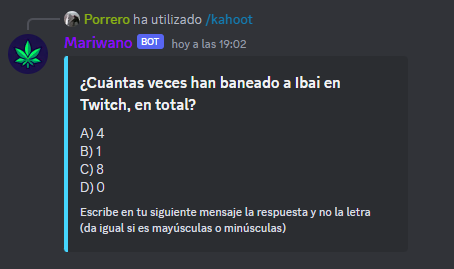
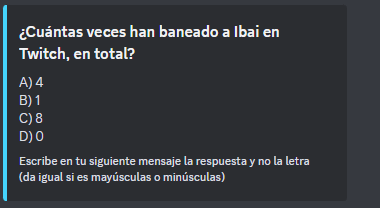
fun category fully completed

Changed region(s): [[0.0, 0.0288, 0.8395, 0.9808]]

diff --git a/src/components/categories/FunCategory.jsx b/src/components/categories/FunCategory.jsx
@@ -1,44 +1,156 @@
 import CategorySection from "../CategorySection";
 import CategoryTitle from "../CategoryTtitle";
-import ryangoslingExample from "../../assets/commands/ryangosling.png";
-import padalustroExample from "../../assets/commands/padalustro.png";
-import fakeyouExample from "../../assets/commands/fakeyou.png";
-import kahootExample from "../../assets/commands/kahoot.png";
-import frasejokerExample from "../../assets/commands/frasejoker.png";
-import arabfunnyExample from "../../assets/commands/arabfunny.png";
-import arabfunnyExample2 from "../../assets/commands/arabfunny2.png";
-import crearmemeExample from "../../assets/commands/crearmeme.png";
+import DiscordMessage from "../DiscordMessage";
 
 export default function FunCategory() {
-    return (
-        <article className="flex flex-col gap-y-8 px-32 pt-10 pb-32">
-            <CategoryTitle title={"Diversión"}>
-                Categoría de los comandos buenos
-            </CategoryTitle>
-            <CategorySection command={"arabfunny"} params={"لا أحد"} firstImageUrl={arabfunnyExample} secondImageUrl={arabfunnyExample2}>
-                هذا الأمر يتضمن اقتراح إرسال رسائل باللغة العربية. يمكن تغيير نصوص الأوامر حسب الرغبة دون أن تتجاوز مليوني حر            </CategorySection>
-            <CategorySection command={"crearmeme"} params={"url, textoArriba, textoAbajo, efectos"} firstImageUrl={crearmemeExample}>
-                A partir de la url de una imagen (una que acabe en .jpg o .png o .gif) añade un texto inferior y uno superior. 
-                Existe la opción de añadir un efecto (esferizar, desenfocar, etc.). Envía el resultado de la imagen (por ahora no puede enviar gifs).
-            </CategorySection>
-            <CategorySection command={"fakeyou"} params={"voz, texto"} firstImageUrl={fakeyouExample}>
-                Envía un audio con la voz hecha con la plataforma de IA FakeYou de tu ídolo/youtuber/streamer favorito. 
-                Introduce a la persona que quieres que recite el texto en el parametro <i>voz</i> (el código coge el primero que encuentre) y el texto en el otro parámetro.
-            </CategorySection>
-            <CategorySection command={"frasejoker"} params={"add, all"} firstImageUrl={frasejokerExample} >
-                Envía una frase aleatoria digna de cita del Joker.
-            </CategorySection>
-            <CategorySection command={"kahoot"} params={"hardcore"} firstImageUrl={kahootExample} >
-                Un trivia de cultura general, si respondes en 15 segundos con la respuesta correcta, te corresponde
-                una recompensa en relación a la dificultad de la pregunta. En el modo <i>hardcore</i> sólo aparecen preguntas difíciles. Hay un límite de 5 preguntas diarias.
-            </CategorySection>
-            <CategorySection command={"padalustro"} params={"Ninguno"} firstImageUrl={padalustroExample} >
-                
-            </CategorySection>
-            <CategorySection command={"ryangosling"} params={"Ninguno"} firstImageUrl={ryangoslingExample} >
-                Envía una foto aleatoria de Ryan Gosling.
-            </CategorySection>
-            
-        </article>
-    )
+  return (
+    <article className="flex flex-col gap-y-8 px-32 pt-10 pb-32">
+      <CategoryTitle title={"Diversión"}>
+        Categoría de los comandos buenos
+      </CategoryTitle>
+
+      <CategorySection
+        command={"arabfunny"}
+        params={"لا أحد"}
+      >
+        هذا الأمر يتضمن اقتراح إرسال رسائل باللغة العربية. يمكن تغيير نصوص
+        الأوامر حسب الرغبة دون أن تتجاوز مليوني حر
+      </CategorySection>
+      <div
+        className="flex container"
+        style={{
+          display: "flex",
+          justifyContent: "center",
+          alignItems: "center",
+          height: "70vh",
+        }}
+      >
+        <DiscordMessage
+          msg={
+            "الافتتاحية (الفاتحة) 1. بسم الله الرحمن الرحيم. 2. الحمد لله رب العالمين. 3. الرحمن الرحيم. 4. سيد يوم الدين. 5. إياك نعبد وإياك نستعين. 6. اهدنا إلى الصراط المستقيم. 7. صراط الذين أنعمت عليهم غير المغضوب عليهم ولا الضالين. 2. البقرة (البقرة) بسم الله الرحمن الرحيم 1. ألف، لام، ميم. 2. ذلك الكتاب لا ريب فيه هدى للمتقين. 3. الذين يؤمنون بالغيب ويقيمون الصلاة ومما رزقناهم ينفقون. 4. والذين يؤمنون بما أنزل إليك وما أنزل من قبلك وبالآخرة هم يوقنون. 5. أولئك على هدى من ربهم. هؤلاء هم الناجحون. 6. أما الذين كفروا سواء عليهم أأنذرتهم أم لم تنذرهم لا يؤمنون. 7. ختم الله على قلوبهم وعلى سمعهم وعلى أبصارهم غشاوة. ولهم عذاب شديد . 8. ومن الناس من يقول آمنا بالله واليوم الآخر وما هم بمؤمنين. 9. يخادعون الله والذين آمنوا وما يخدعون إلا أنفسهم وما يشعرون. 10. في قلوبهم مرض فزادهم الله مرضا. ولهم عذاب أليم بما كذبوا. 11. وإذا قيل لهم لا تفسدوا في الأرض قالوا إنما نحن مصلحون. 12. بل هم المفسدون ولكن لا يشعرون. 13. وإذا قيل لهم آمنوا كما آمن الناس قالوا أنؤمن كما آمن السفهاء؟ في"
+          }
+          isBot={true}
+        ></DiscordMessage>
+        <DiscordMessage
+          msg={
+            "😂مرحبًا، مساء الخير أيه😋ا الأوغاد، أناKERNEL😂 أدخن ذا قيل لهم لا تفسدوا في الأرض قالوا إنما نحن مصلحذا قيل لهم لا تفسدوا في الأرض قالوا إنما نحن مصلحذا قيل لهم لا تفسدوا في الأرض قالوا إنما نحن مصلحذا قيل ل😂هم لا تفسدوا في الأرض قالوا إنما نحن مصلحذا قيل لهم لا تفسدوا في الأرض قالوا إنما نحن مصلحذا قيل لهم لا تفسدوا في الأرض قالوا إنما نحن مصلحذا قيل لهم لا تفسدوا في الأرض قالوا 🥵إنما نحن مصلحذا قيل لهم لا تفسدوا في الأرض قالوا إنما نحن مصلحذا قيل لهم لا تفسدوا في الأرض قالوا إنما نحن م🥵صلحذا قيل لهم لا تفسدوا في الأرض قالوا إنما نحن مصلحسيجارة بيتونسيو ها🥵ئلة في الساعة 420 🤯بعد الظهر"
+          }
+          isBot={true}
+        ></DiscordMessage>
+      </div>
+      <CategorySection
+        command={"crearmeme"}
+        params={"url, textoArriba, textoAbajo, efectos"}
+      >
+        A partir de la url de una imagen (una que acabe en .jpg o .png o .gif)
+        añade un texto inferior y uno superior. Existe la opción de añadir un
+        efecto (esferizar, desenfocar, etc.). Envía el resultado de la imagen
+        (por ahora no puede enviar gifs).
+      </CategorySection>
+      <div
+        className="flex container"
+        style={{
+          display: "flex",
+          justifyContent: "center",
+          alignItems: "center",
+          height: "20vh",
+        }}
+      >
+        <DiscordMessage msg={""} isBot={true} imagen={"/src/assets/commands/crearmeme2.png"} imagenHeight={60} imagenWidth={300}></DiscordMessage>
+      </div>
+      <CategorySection
+        command={"fakeyou"}
+        params={"voz, texto"}
+      >
+        Envía un audio con la voz hecha con la plataforma de IA FakeYou de tu
+        ídolo/youtuber/streamer favorito. Introduce a la persona que quieres que
+        recite el texto en el parametro <i>voz</i> (el código coge el primero
+        que encuentre) y el texto en el otro parámetro.
+      </CategorySection>
+      <div
+        className="flex container"
+        style={{
+          display: "flex",
+          justifyContent: "center",
+          alignItems: "center",
+          height: "20vh",
+        }}
+      >
+        <DiscordMessage msg={"Cargando audio..."} isBot={true}></DiscordMessage>
+        <DiscordMessage msg={""} isBot={true} imagen={"/src/assets/commands/tts_audio.png"} imagenHeight={130} imagenWidth={300}>
+          
+        </DiscordMessage>
+      </div>
+      <CategorySection
+        command={"frasejoker"}
+        params={"add, all"}
+      >
+        Envía una frase aleatoria digna de cita del Joker.
+      </CategorySection>
+      <div
+        className="flex container"
+        style={{
+          display: "flex",
+          justifyContent: "center",
+          alignItems: "center",
+          height: "10vh",
+        }}
+      >
+        <DiscordMessage msg={"el que madruga se encuentra con todo cerrado😔🤙"} isBot={true}></DiscordMessage>
+        <DiscordMessage msg={"para mi el locomotor es sólo motor🥵"} isBot={true}></DiscordMessage>
+      </div>
+      <CategorySection
+        command={"kahoot"}
+        params={"hardcore"}
+      >
+        Un trivia de cultura general, si respondes en 15 segundos con la
+        respuesta correcta, te corresponde una recompensa en relación a la
+        dificultad de la pregunta. En el modo <i>hardcore</i> sólo aparecen
+        preguntas difíciles. Hay un límite de 5 preguntas diarias.
+      </CategorySection>
+      <div
+        className="flex container"
+        style={{
+          display: "flex",
+          justifyContent: "center",
+          alignItems: "center",
+          height: "30vh",
+        }}
+      >
+        <DiscordMessage msg={""} isBot={true} imagen={"/src/assets/commands/kahoot.png"} imagenHeight={190} imagenWidth={320}></DiscordMessage>
+      </div>
+      <CategorySection
+        command={"padalustro"}
+        params={"Ninguno"}
+      ></CategorySection>
+      <div
+        className="flex container"
+        style={{
+          display: "flex",
+          justifyContent: "center",
+          alignItems: "center",
+          height: "30vh",
+        }}
+      >
+        <DiscordMessage msg={"Tenga cuidado con el consumo de cannabis, un sólo porro contiene:\nCrotolamo\n· Aboreo\n· Acudo\n· Nifo\n· Uxiono\n· Trujo\n· Permatrago\n· Padalustro\n· Orbo\n· Tiro\n· Primo\n· Obo\n· Oplo\n· Crotofroto\n· Tampo\n· Timulo\n· Cupo\n· Combro"} isBot={true} ></DiscordMessage>
+      </div>
+      <CategorySection
+        command={"ryangosling"}
+        params={"Ninguno"}
+      >
+        Envía una foto aleatoria de Ryan Gosling.
+      </CategorySection>
+      <div
+        className="flex container"
+        style={{
+          display: "flex",
+          justifyContent: "center",
+          alignItems: "center",
+          height: "50vh",
+        }}
+      >
+        <DiscordMessage msg={""} isBot={true} imagen={"/src/assets/commands/ryangosling.png"} imagenHeight={235} imagenWidth={300}></DiscordMessage>
+      </div>
+    </article>
+  );
 }

diff --git a/src/components/DiscordMessage.jsx b/src/components/DiscordMessage.jsx
@@ -1,0 +1,90 @@
+
+export const Componente = ({element, height, width}) =>{
+    return(<div
+      style={{
+        width: `${width}px`,
+        height: `${height}px`,
+        
+        marginRight: "10px", // Espacio entre la imagen y el contenido
+        overflow: "hidden", 
+        flexShrink: 0,
+      }}
+    >
+      <img
+        src={element} 
+        alt=""
+       
+      />
+    </div>);
+  }
+  
+  export default function DiscordMessage ({ msg, isBot, imagen, imagenHeight, imagenWidth }) {
+    const messageStyle = {
+      display: "flex",
+      flexDirection: "row", // Cambiado a fila para alinear la foto y el contenido
+      maxWidth: `400px`, // ajusta según tus necesidades
+      background: "#36393f", // color de fondo de Discord
+      padding: "10px",
+      borderRadius: "8px",
+      margin: "10px",
+      fontFamily: "gg sans Medium, sans-serif", // fuente utilizada por Discord
+    };
+  
+    const avatarStyle = {
+      width: "40px",
+      height: "40px",
+      borderRadius: "50%", // Hace que la imagen sea circular
+      marginRight: "10px", // Espacio entre la imagen y el contenido
+      overflow: "hidden", // Asegura que la imagen no sobresalga del círculo
+      flexShrink: 0,
+    };
+  
+    const authorContainerStyle = {
+      display: "flex",
+      alignItems: "center", // Alinea la etiqueta y el nombre verticalmente
+    };
+  
+    const authorStyle = {
+      color: "#7289da", // color del nombre de usuario en Discord
+      marginBottom: "-2px",
+    };
+  
+    const botTagStyle = {
+      background: "#7389da", // color morado de la etiqueta "BOT" en Discord
+      color: "#ffffff", // color del texto de la etiqueta
+      padding: "0px 5px",
+      borderRadius: "4px",
+      marginLeft: "5px", // Espacio entre la etiqueta y el nombre
+      fontSize: "12px",
+    };
+  
+    const contentStyle = {
+      color: "#ffffff", // color del texto en Discord
+    };
+  
+    return (
+      <div style={messageStyle}>
+        <div style={avatarStyle}>
+          <link
+            href="https://fonts.cdnfonts.com/css/gg-sans-2"
+            rel="stylesheet"
+          />
+          <img
+            src="/src/assets/mariwano-icon.png" // Reemplaza con la URL de la foto de perfil
+            alt="Avatar"
+            style={{ width: "100%", height: "100%", objectFit: "cover" }}
+          />
+        </div>
+        <div>
+          <div style={authorContainerStyle}>
+            <div style={authorStyle}>Mariwano</div>
+            {isBot && <div style={botTagStyle}>BOT</div>}
+          </div>
+          <div style={contentStyle}>{msg}
+          {imagen && <Componente element={imagen} height={imagenHeight} width={imagenWidth}/>}
+          </div>
+        </div>
+      </div>
+    );
+  };
+  

diff --git a/src/components/CategorySection.jsx b/src/components/CategorySection.jsx
@@ -1,12 +1,11 @@
-export default function CategorySection({ command, params, firstImageUrl, secondImageUrl, children }) {
+export default function CategorySection({ command, params, children }) {
     return (
         <section className="flex flex-col gap-y-3">
             <h2 className="text-4xl font-bold">/{command}</h2>
             <h3 className="text-xl font-bold">Parámetros: {params}</h3>
             <p className="text-xl">{children}</p>
             <section className="flex justify-center gap-x-6">
-                <img src={firstImageUrl} alt={`Ejemplo del comando /${command}`} className="w-full max-w-md" />
-                {secondImageUrl && <img src={secondImageUrl} alt={`Ejemplo del comando /${command}`} className="w-full max-w-md" />}
+                
             </section>
         </section>
     )
